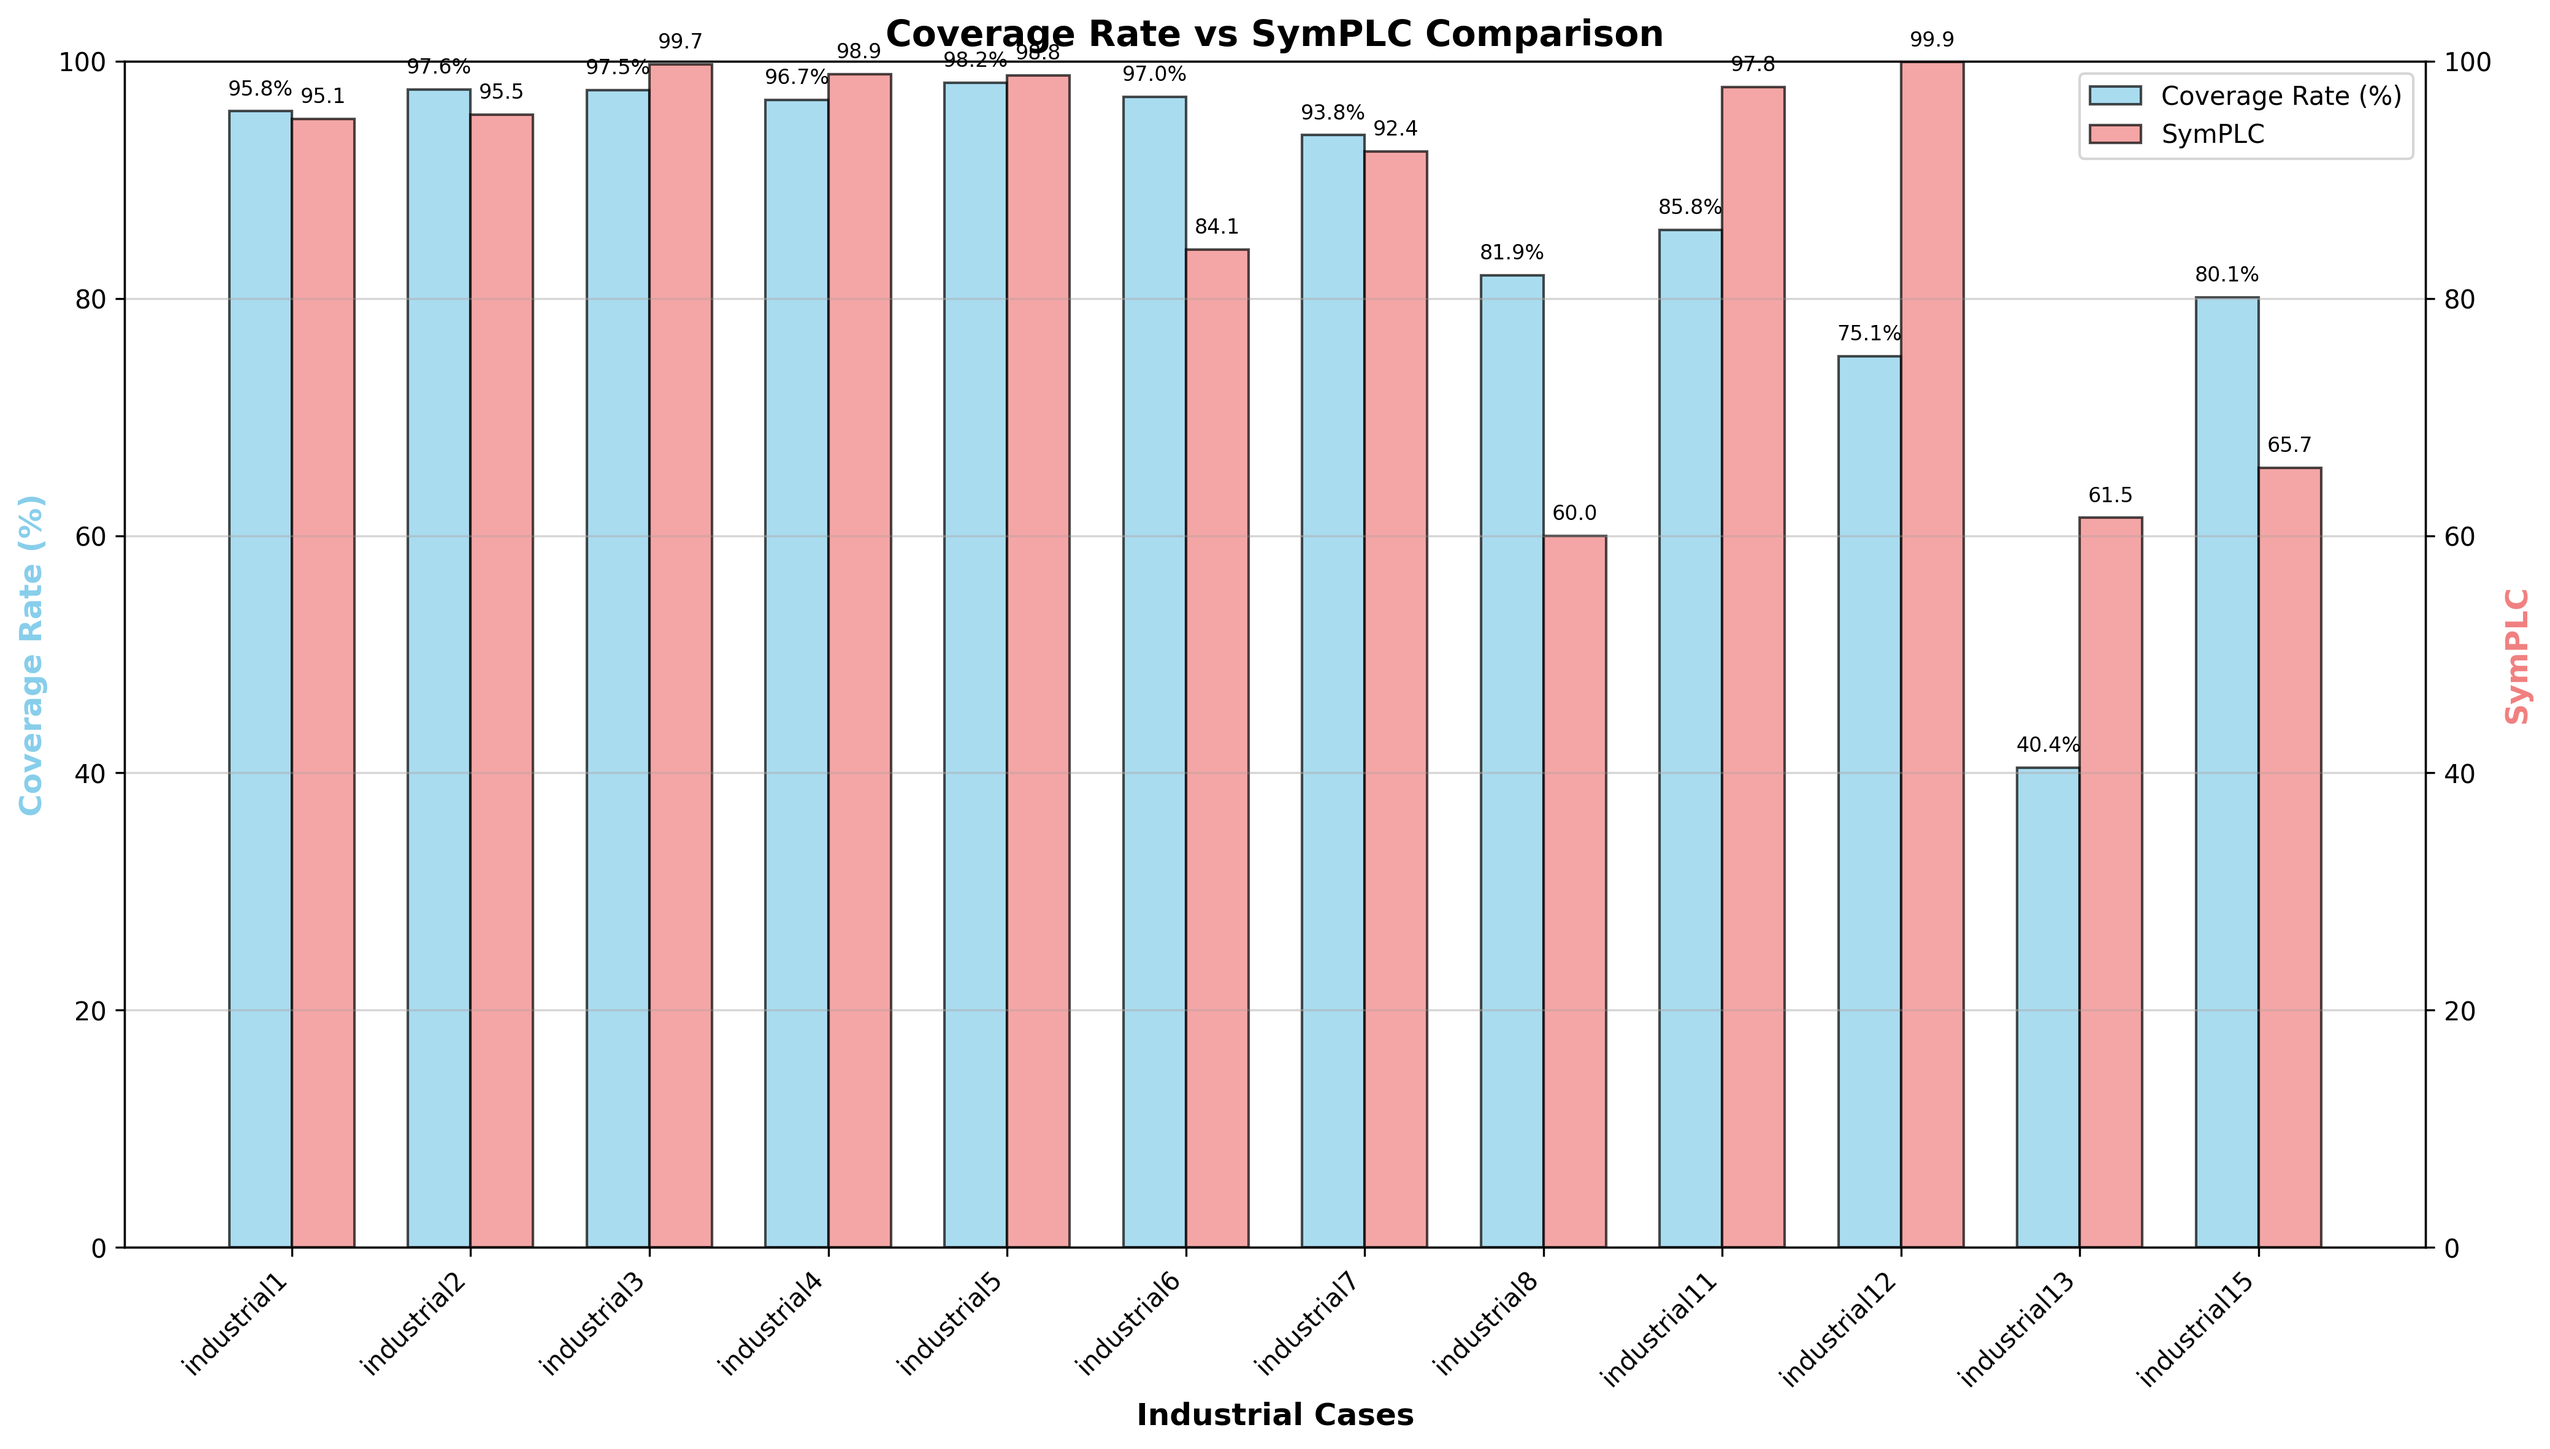
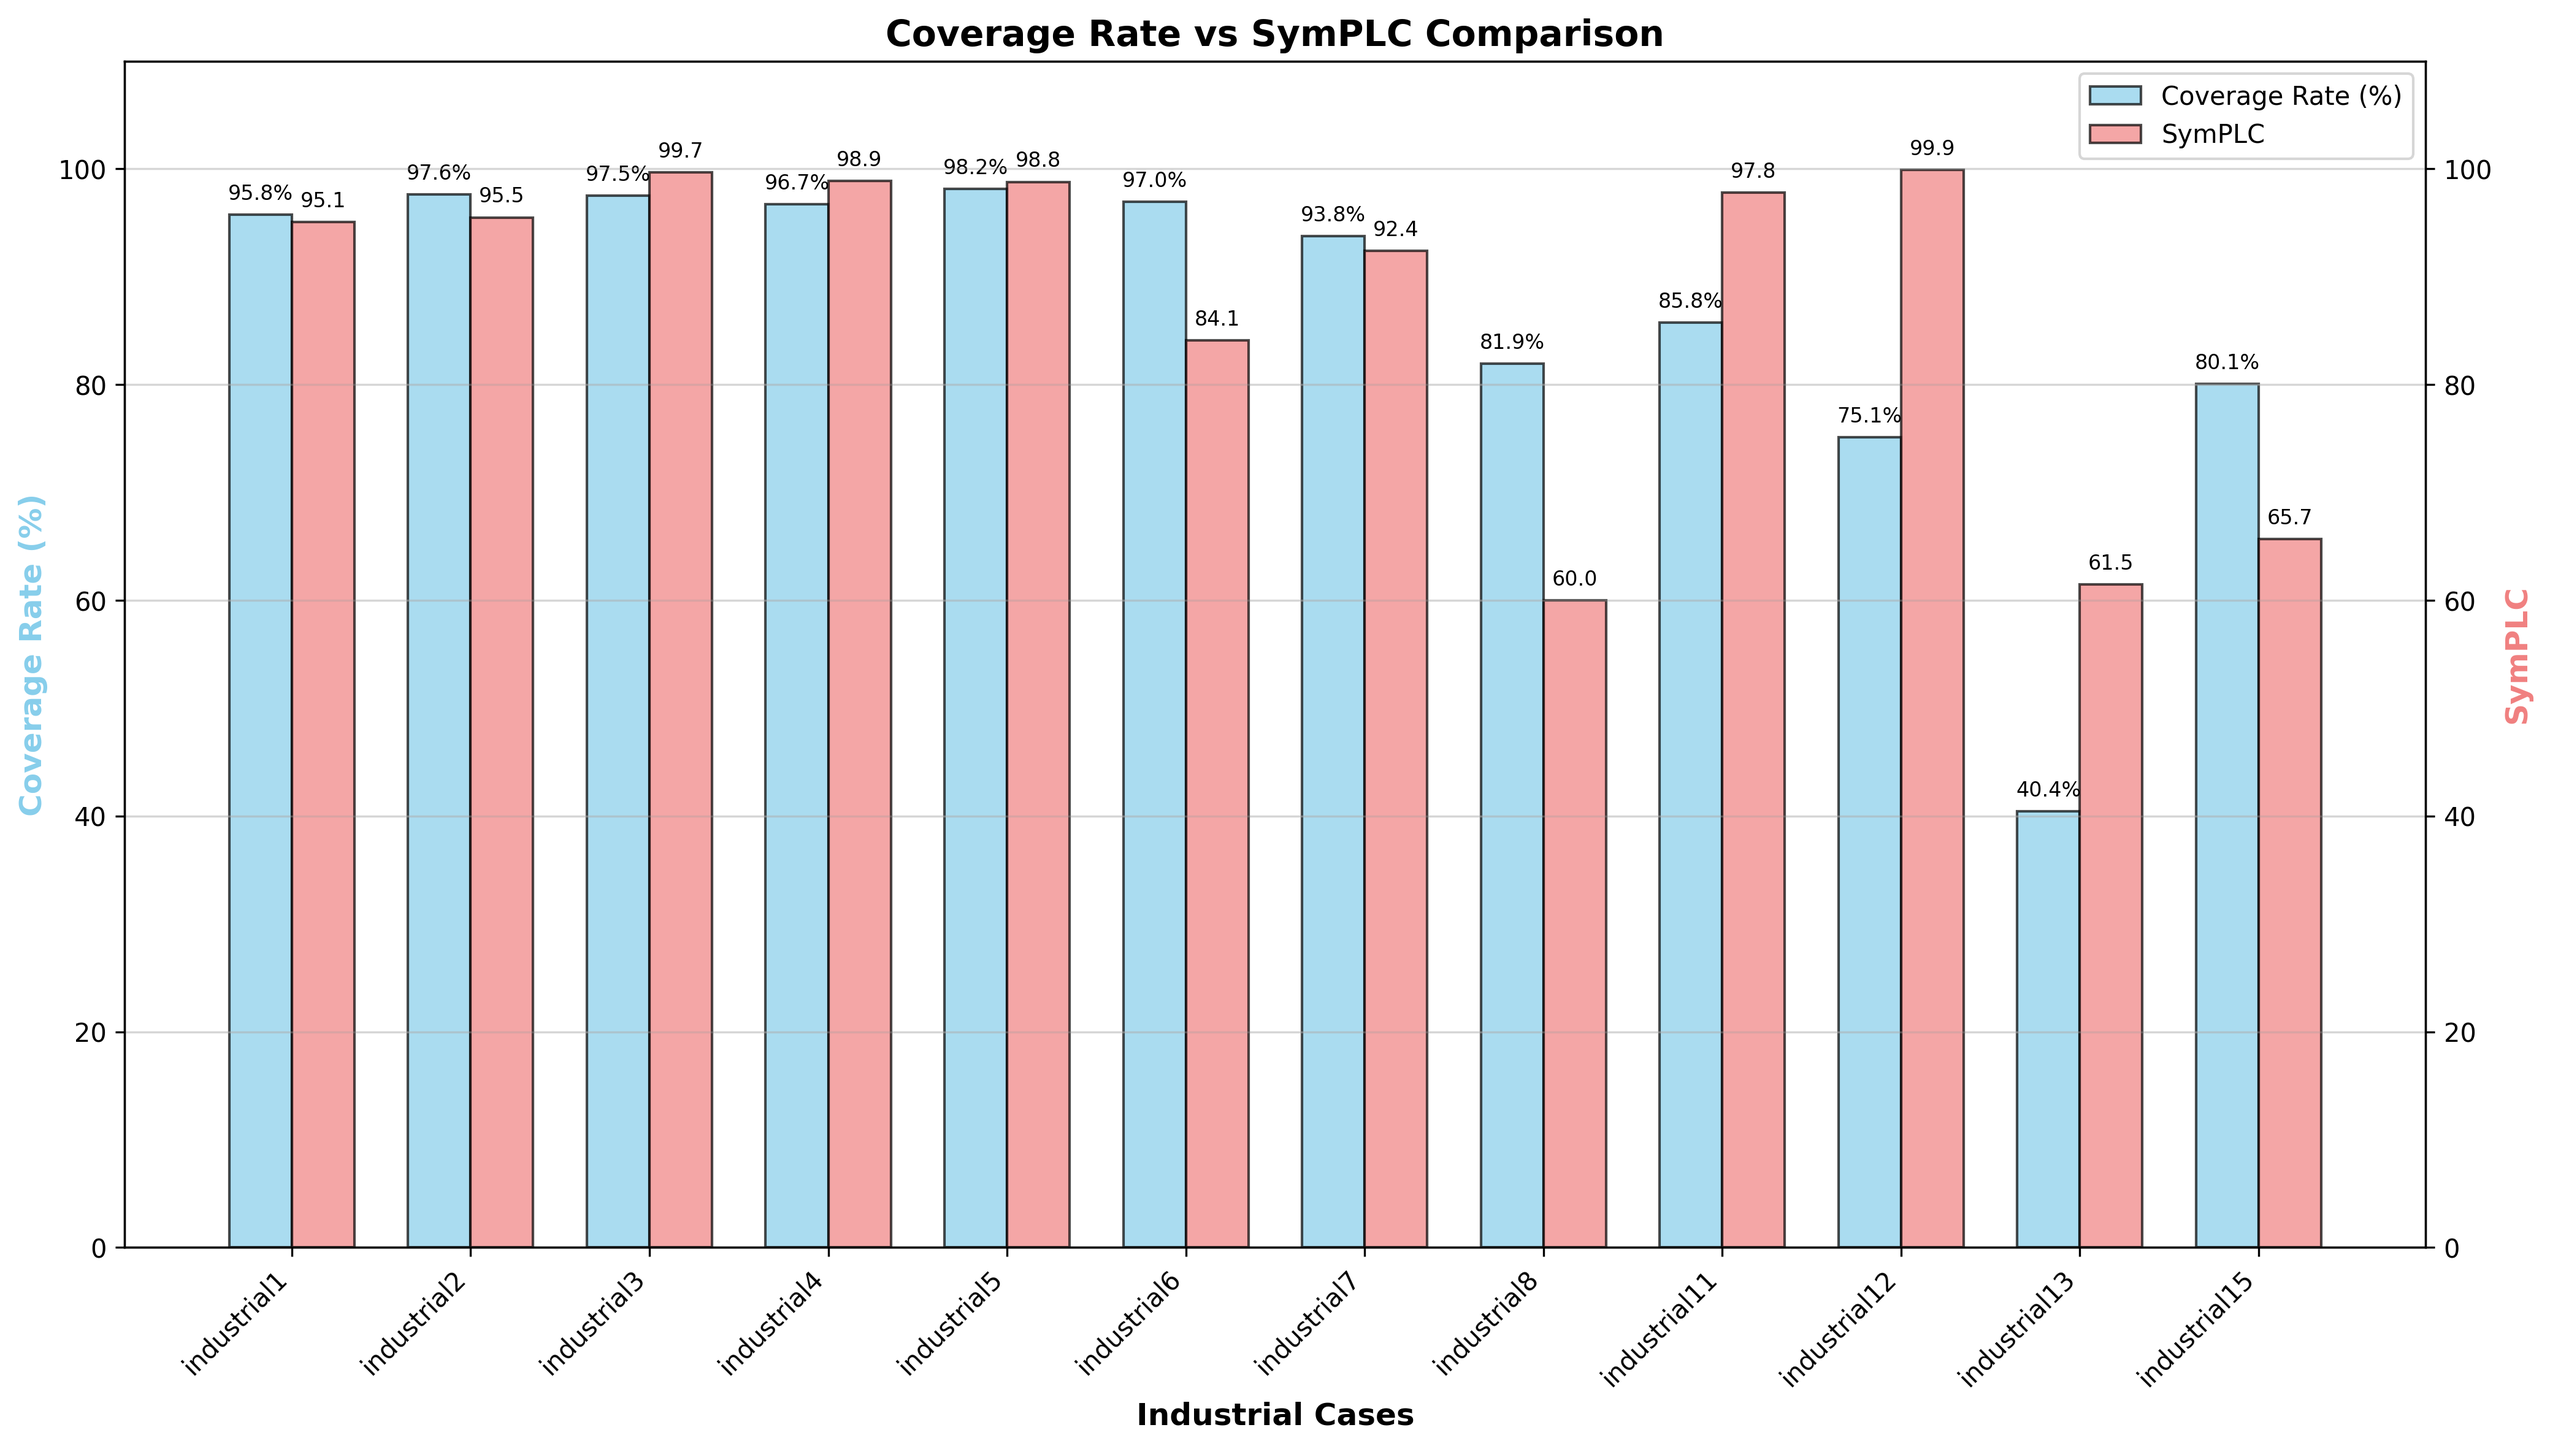
增加了很多的测试脚本和画图脚本

diff --git a/scripts/calculate_cpp_lines.py b/scripts/calculate_cpp_lines.py
@@ -1,0 +1,105 @@
+import os
+from pathlib import Path
+
+def count_lines_in_file(file_path):
+    """
+    统计单个文件的行数
+    
+    参数:
+        file_path: 文件路径
+        
+    返回:
+        文件的行数（整数）
+    """
+    try:
+        # 使用UTF-8编码打开文件
+        with open(file_path, 'r', encoding='utf-8') as f:
+            return len(f.readlines())
+    except UnicodeDecodeError:
+        try:
+            # 如果UTF-8失败，尝试GBK编码（常见于中文文件）
+            with open(file_path, 'r', encoding='gbk') as f:
+                return len(f.readlines())
+        except:
+            print(f"无法读取文件（编码问题）: {file_path}")
+            return 0
+    except Exception as e:
+        print(f"处理文件时出错 {file_path}: {str(e)}")
+        return 0
+
+def count_all_lines(directory, target_extensions=None):
+    """
+    统计目录下所有文件的行数
+    
+    参数:
+        directory: 要统计的目录路径
+        target_extensions: 要统计的文件扩展名列表，如 ['.py', '.txt']
+                         如果为None，则统计所有文件
+                         
+    返回:
+        total_files: 文件总数
+        total_lines: 总行数
+    """
+    total_files = 0
+    total_lines = 0
+    
+    # 使用pathlib进行目录遍历
+    for file_path in Path(directory).rglob('*'):
+        if file_path.is_file():
+            # 如果有指定扩展名要求，进行检查
+            if target_extensions is not None:
+                if file_path.suffix.lower() not in target_extensions:
+                    continue
+            
+            # 跳过常见的隐藏目录（如.git, node_modules等）
+            if any(part.startswith('.') and part not in ['.', '..'] 
+                   for part in file_path.parts):
+                continue
+                
+            lines = count_lines_in_file(file_path)
+            total_files += 1
+            total_lines += lines
+            
+            # 可选：显示每个文件的统计信息
+            print(f"{file_path}: {lines} 行")
+    
+    return total_files, total_lines
+
+def calculate_plclogic():
+    """主函数"""
+    # 设置要统计的目录路径
+    directory = "../plclogic"
+    if not directory:
+        directory = os.getcwd()
+    
+    # 检查目录是否存在
+    if not os.path.exists(directory):
+        print(f"错误：目录 '{directory}' 不存在")
+        return
+    
+    # 设置要统计的文件类型（None表示所有文件）
+    # 如果只想统计特定类型的文件，可以取消下面的注释并修改列表
+    target_extensions = None  # 统计所有文件
+    # target_extensions = ['.py', '.txt', '.md']  # 只统计Python、文本和Markdown文件
+    
+    print(f"开始统计目录: {directory}")
+    if target_extensions:
+        print(f"目标文件类型: {', '.join(target_extensions)}")
+    print("-" * 50)
+    
+    # 执行统计
+    total_files, total_lines = count_all_lines(directory, target_extensions)
+    
+    # 输出结果
+    print("-" * 50)
+    print(f"统计完成！")
+    print(f"总文件数: {total_files}")
+    print(f"总行数: {total_lines}")
+    if total_files > 0:
+        print(f"平均每个文件行数: {total_lines / total_files:.1f}")
+        
+    return total_lines
+
+# 运行脚本
+if __name__ == "__main__":
+    calculate_plclogic()

diff --git a/scripts/calculate_code_lines.py b/scripts/calculate_code_lines.py
@@ -1,16 +1,17 @@
 import os
 
+from  calculate_cpp_lines import calculate_plclogic
 
 if __name__ == '__main__':
     base_folder = "../testcases/G4LTL-industrial/"
-    # base_folder = "../testcases/auto_race/"
+    # base_folder = "./testcases/auto_race/"
     total_lines = 0
     total_blank_lines = 0
     total_line_message = {}
     blank_line_message = {}
-    
     cpp_line_message = {}
     cpp_blank_line_message = {}
+    
     for root, dirs, files in os.walk(base_folder):
         for file in files:
             #  统计plc代码行数
@@ -22,21 +23,7 @@ if __name__ == '__main__':
             total_line_message[file] = lines
             blank_line_message[file] = blank_lines
             
-            # 统计c++代码行数
-            # 先编译
-            os.system(f"../tools/iec2c -T ./plclogic $1 {os.path.join(root, file)}")
-            # 
-            cpp_base_folder = "../plclogic/"
-            # 统计cpp_base_folder下的所有C++代码
-            cpp_lines = 0
-            cpp_blank_lines = 0
-            for root_cpp, dirs_cpp, files_cpp in os.walk(cpp_base_folder):
-                for file_cpp in files_cpp:
-                    if file_cpp.endswith(".c") or file_cpp.endswith(".h"):
-                        cpp_lines += sum(1 for line in open(os.path.join(root_cpp, file_cpp)))
-                        cpp_blank_lines += sum(1 for line in open(os.path.join(root_cpp, file_cpp)) if line.isspace())
-            cpp_line_message[file] = cpp_lines
-            cpp_blank_line_message[file] = cpp_blank_lines
+            cpp_line_message[file] = calculate_plclogic()
     print("Total lines of code:", total_lines)
     
     for file, lines in total_line_message.items():
@@ -49,5 +36,5 @@ if __name__ == '__main__':
         line = total_line_message[file]
         blank_line = blank_line_message[file]
         cpp_line = cpp_line_message[file]
-        cpp_blank_line = cpp_blank_line_message[file]
-        print(f"{file}\t&\t{line}\t&\t{blank_line}\t&\t{cpp_line}\t&\t{cpp_blank_line}\t\\\\")
+        # cpp_blank_line = cpp_blank_line_message[file]
+        print(f"{file}\t&\t{line}\t&\t{blank_line}\t&\t{cpp_line}\t\\\\")

diff --git a/draw_picture/map_density_compare/draw_map_density.py b/draw_picture/map_density_compare/draw_map_density.py
@@ -54,8 +54,8 @@ def plot_coverage_symplc_comparison(csv_file_path,symplc_file_path):
     ax1.set_xticklabels(df['filename'], rotation=45, ha='right')
     
     # 设置Y轴范围
-    ax1.set_ylim(0, 100)
-    ax2.set_ylim(0, 100)
+    ax1.set_ylim(0, 110)
+    ax2.set_ylim(0, 110)
     
     # 添加数值标签
     for bar in bars1:

diff --git a/draw_picture/draw_crash.py b/draw_picture/draw_crash.py
@@ -14,7 +14,7 @@ def plot_afl_analysis(csv_file="afl_crash_data.csv"):
     plt.rcParams['axes.unicode_minus'] = False
     
     # 创建图形
-    fig, (ax1, ax2) = plt.subplots(1, 2, figsize=(15, 6))
+    fig, (ax1, ax2) = plt.subplots(1, 2, figsize=(15, 8))
     
     # 设置x轴位置
     x = np.arange(len(df['filename']))

diff --git a/draw_picture/draw_seconds.py b/draw_picture/draw_seconds.py
@@ -10,7 +10,7 @@ sns.set_style("whitegrid")
 df = pd.read_csv('./fuzzer_stats_summary.csv')
 
 # 创建条形图
-plt.figure(figsize=(14, 8))
+plt.figure(figsize=(14, 9))
 bars = plt.bar(df['group'], df['execs_per_sec'], color=sns.color_palette("viridis", len(df)))
 
 # 在条形顶端显示数值
